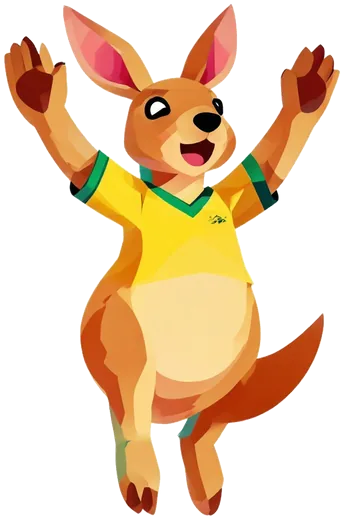
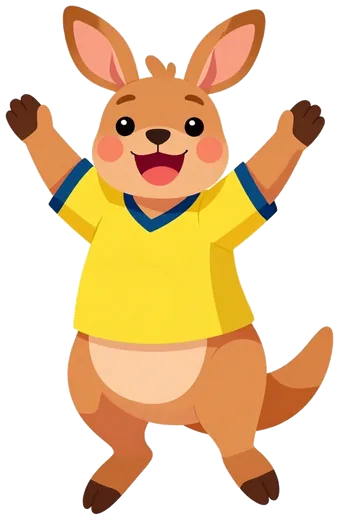
Prototype: flat-style Matilda, Max poses and 1.1 nouns (l2-art)
Replaces the round-5 (NAG 3) art with the flat max_s1 style, same file
names, so no code changes:
- matilda.webp: the new Matilda (balaca wayuu, soft lashes, striped ruana)
- matilda-wave/-celebrate/-surprised/-thinking, max-wave/-jump/-celebrate
  (fists up instead of a thumbs-up)/-surprised/-thinking
- noun-mapa, noun-mundo, noun-capital, noun-monumento
max.webp, the owls and family.webp are unchanged.

process_art.py now cuts out all of these (FLAT_PICKS) and takes asset
names to rebuild only some. New "noshadow" mask mode for art whose pale
parts touch the background (Matilda's belly, the map's white roads):
rembg's mask with holes filled, minus enclosed white gaps and the grey
ground shadow. process_art_l2.py only makes the PWA icons now.

Service worker and APP_VERSION bumped to 2026-10-18.l2-art.
DESIGN_SYSTEM.md asset table lists the new sources (spanish_app
design/characters/remake_flat/) and the owl/family style check.

Claude-Session: https://claude.ai/code/session_011BbGonQdQw1HEAXtyKUz6k

diff --git a/prototype/sw.js b/prototype/sw.js
@@ -7,7 +7,7 @@
 // Updates: bump VERSION (and APP_VERSION in js/app.js) on every release. The new worker
 // installs in the background, then the page tells it to take over (SKIP_WAITING) as
 // soon as no lesson is running (js/app.js); old caches are deleted on activate.
-const VERSION = "2026-10-18.l2-audio";
+const VERSION = "2026-10-18.l2-art";
 const SHELL = `buhisimo-shell-${VERSION}`;
 const MEDIA = `buhisimo-media-${VERSION}`;
 const RUNTIME = "buhisimo-runtime";

diff --git a/prototype/js/app.js b/prototype/js/app.js
@@ -14,7 +14,7 @@ import { gradeStep, meetLesson, buildReview, reviewViewHtml, dueItems, metItems 
 import { mountRadio, stopRadio } from "./radio.js";
 
 // Bump together with VERSION in sw.js for every release (tools/e2e-unit.mjs checks they match).
-export const APP_VERSION = "2026-10-18.l2-audio";
+export const APP_VERSION = "2026-10-18.l2-art";
 
 const app = document.getElementById("app");
 applyFont(store.get().font);

diff --git a/prototype/tools/process_art.py b/prototype/tools/process_art.py
@@ -1,8 +1,10 @@
 #!/usr/bin/env python3
 """Cut out and optimise the prototype art.
 
-Run with the Python that has rembg installed:
-    ~/Documents/video_generation/Wan2GP/.venv/bin/python prototype/tools/process_art.py
+Run with the Python that has rembg installed (CPU is enough):
+    CUDA_VISIBLE_DEVICES="" ~/Documents/video_generation/Wan2GP/.venv/bin/python prototype/tools/process_art.py [names...]
+
+With names, only those assets are rebuilt (e.g. `max-wave noun-mapa`).
 
 Reads the source PNGs (never modifies them) from
 ~/Documents/spanish/spanish_app/design/prototype_art/ and writes optimised
@@ -22,6 +24,11 @@ from scipy import ndimage
 SRC = Path.home() / "Documents/spanish/spanish_app/design/prototype_art"
 # Species-accurate Buhísimo (round head, no ear tufts), seed 3 = most consistent set.
 OWL_SRC = Path.home() / "Documents/spanish/spanish_app/design/characters/owl_fix"
+# Oct 18 flat remake (max_s1 style, NAG off): Matilda with the balaca wayuu, the expression
+# poses for Matilda and Max, and the four Unit 1.1 nouns. Replaces the round-5 art that
+# process_art_l2.py used to cut out.
+# matilda_stand_s4.png is Juan's pick from matilda_girl/balaca_style/, copied into remake_flat/.
+FLAT_SRC = Path.home() / "Documents/spanish/spanish_app/design/characters/remake_flat"
 OUT = Path(__file__).resolve().parent.parent / "assets"
 MAX_BYTES = 150 * 1024
 
@@ -31,6 +38,8 @@ MAX_BYTES = 150 * 1024
 #                 near-white pixels (keeps white eye patches and chests solid)
 #   mode "rembg": rembg's own mask with enclosed holes filled (for art where
 #                 white clothes touch the background, e.g. the family)
+#   mode "noshadow": rembg's mask (holes filled) minus the neutral-grey ground
+#                 shadow, see rembg_no_shadow ("noshadow-keepwhite" for the map)
 #   whiteout: rectangles (fractions) painted white first, to erase the houses
 O = dict(model="isnet-general-use", size=640, mode="flood", core=(0.35, 0.25, 0.65, 0.75), whiteout=())
 CHARACTERS = {
@@ -38,11 +47,35 @@ CHARACTERS = {
     "owl-celebrating": dict(O, dir=OWL_SRC, src="pose_celebrating_s3.png", mode="rembg"),
     "owl-encouraging": dict(O, dir=OWL_SRC, src="pose_encouraging_s3.png", mode="rembg"),
     "owl-thinking":    dict(O, dir=OWL_SRC, src="pose_thinking_s3.png", mode="rembg"),
-    "matilda":         dict(O, src="matilda_s2.png", core=(0.40, 0.25, 0.60, 0.75),
-                            whiteout=((0.0, 0.43, 0.285, 1.0), (0.73, 0.47, 1.0, 1.0))),
+    # Her pale belly touches the white background between her legs, so the flood fill would eat it.
+    "matilda":         dict(O, dir=FLAT_SRC, src="matilda_stand_s4.png", mode="noshadow", core=(0.40, 0.25, 0.60, 0.75)),
     "max":             dict(O, src="max_s1.png", core=(0.40, 0.30, 0.60, 0.70)),
     "family":          dict(O, src="family_s1.png", size=900, mode="rembg", core=(0.30, 0.30, 0.70, 0.80)),
 }
+# Expression poses and nouns: same pipeline, smaller output (the sizes the round-5 art had).
+F = dict(O, dir=FLAT_SRC, size=520)
+N = dict(F, size=420)
+FLAT_PICKS = {
+    "matilda-wave": "matilda_wave_s4.png",
+    "matilda-celebrate": "matilda_celebrate_s4.png",
+    "matilda-surprised": "matilda_surprised_s4.png",
+    "matilda-thinking": "matilda_thinking_s1.png",
+    "max-wave": "max_wave_s1.png",
+    "max-jump": "max_jump_s1.png",
+    "max-celebrate": "max_celebrate_s3.png",
+    "max-surprised": "max_surprised_s1.png",
+    "max-thinking": "max_thinking_s2.png",
+    "noun-mapa": "noun_mapa_s4.png",
+    "noun-mundo": "noun_mundo_s2.png",
+    "noun-capital": "noun_capital_s2.png",
+    "noun-monumento": "noun_monumento_s4.png",
+}
+# Where pale parts touch the background (Matilda's belly, the map's white roads) the flood
+# fill would eat them, so those use rembg's mask minus the grey ground shadow.
+MODES = {"matilda-wave": "noshadow", "matilda-celebrate": "noshadow", "matilda-surprised": "noshadow",
+         "matilda-thinking": "noshadow", "noun-mapa": "noshadow-keepwhite"}
+for _name, _src in FLAT_PICKS.items():
+    CHARACTERS[_name] = dict(N if _name.startswith("noun") else F, src=_src, mode=MODES.get(_name, "flood"))
 
 # name -> (source, max width, quality)
 SCENES = {
@@ -85,6 +118,40 @@ def fill_holes(rgb_im: Image.Image, cut: Image.Image) -> Image.Image:
     a = np.array(cut)
     solid = ndimage.binary_fill_holes(a[:, :, 3] > 128)
     a[:, :, 3] = np.where(solid, 255, a[:, :, 3])
+    a[:, :, :3] = np.array(rgb_im)
+    return Image.fromarray(a)
+
+
+def rembg_no_shadow(rgb_im: Image.Image, cut: Image.Image, fill: bool = True, drop_gaps: bool = True, band: float = 0.16) -> Image.Image:
+    """rembg's mask, minus the grey ground shadow under the feet.
+
+    For art where pale parts touch the background (Matilda's belly between her legs, the
+    map's white roads), which the flood fill would eat. rembg keeps those, but it also keeps
+    the soft grey ground shadow, so in the bottom `band` of the figure we drop pixels that
+    are border-connected light background AND neutral grey (the shadow is ~(234,232,233);
+    her belly ~(250,234,221) is warm, so it stays). fill=True first makes enclosed holes
+    solid (rembg drops her pale inner ears otherwise); pure white (>=246) is never dropped,
+    so the map's white roads survive.
+    """
+    a = np.array(cut)
+    rgb = np.array(rgb_im).astype(np.int16)
+    lo, hi = rgb.min(axis=2), rgb.max(axis=2)
+    solid = a[:, :, 3] > 128
+    if fill:
+        filled = ndimage.binary_fill_holes(solid)
+        # Holes rembg left are either pale parts (inner ears: keep) or enclosed background
+        # gaps (between the legs, arm and head: pure white, drop).
+        # drop_gaps=False keeps every enclosed white (the map's pin centre and roads).
+        gap = (filled & ~solid) & (lo >= 238) & (hi - lo < 12) & drop_gaps
+        solid = filled & ~ndimage.binary_dilation(gap, iterations=1, mask=filled & ~solid)
+    ys = np.nonzero(solid.any(axis=1))[0]
+    y_band = int(ys[-1] - band * (ys[-1] - ys[0])) if len(ys) else 0
+    drop = background_flood(np.array(rgb_im)) & (hi - lo < 12) & (lo < 246)
+    drop[:y_band] = False
+    keep = solid & ~drop
+    keep = ndimage.binary_opening(keep, iterations=1)  # no thin shadow rims left behind
+    alpha = np.where(keep, 255, 0).astype(np.uint8)
+    a[:, :, 3] = np.array(Image.fromarray(alpha).filter(ImageFilter.GaussianBlur(0.6)))
     a[:, :, :3] = np.array(rgb_im)
     return Image.fromarray(a)
 
@@ -144,7 +211,12 @@ def main(only=None):
                 draw.rectangle((fx0 * im.width, fy0 * im.height, fx1 * im.width, fy1 * im.height), fill="white")
         sess = sessions.setdefault(model, new_session(model))
         cut = remove(im, session=sess, post_process_mask=True)
-        cut = merge_masks(im, cut) if c["mode"] == "flood" else fill_holes(im, cut)
+        if c["mode"] == "flood":
+            cut = merge_masks(im, cut)
+        elif c["mode"] == "rembg":
+            cut = fill_holes(im, cut)
+        else:  # "noshadow" / "noshadow-keepwhite"
+            cut = rembg_no_shadow(im, cut, drop_gaps=c["mode"] == "noshadow")
         cut = keep_character(cut, c["core"])
         # The generated ground shadow is a soft grey ellipse; drop near-transparent haze.
         cut = trim(cut)

diff --git a/prototype/tools/process_art_l2.py b/prototype/tools/process_art_l2.py
@@ -1,6 +1,6 @@
 #!/usr/bin/env python3
-"""Cut out the round-5 expression and noun art for Unit 1.1 (stories, new-word cards)
-and make the PWA icons. NO models: the generated art sits on a plain white
+"""Make the PWA icons (and, historically, cut out the round-5 expression and noun art;
+that art was replaced on 18 Oct, see ART below). NO models: the generated art sits on a plain white
 background, so a flood fill from the border (the same "flood" mask as
 process_art.py, without rembg) is enough. CPU only, numpy + scipy + Pillow:
 
@@ -23,22 +23,11 @@ OUT = PROTO / "assets"
 ICONS = PROTO / "icons"
 MAX_BYTES = 120 * 1024
 
-# name -> (source, max side)
-ART = {
-    "matilda-wave": ("matilda_wave_s1.png", 520),
-    "matilda-surprised": ("matilda_surprised_s1.png", 520),
-    "matilda-celebrate": ("matilda_celebrate_s1.png", 520),
-    "matilda-thinking": ("matilda_thinking_s1.png", 520),
-    "max-wave": ("max_wave_s1.png", 520),
-    "max-jump": ("max_jump_s1.png", 520),
-    "max-surprised": ("max_surprised_s1.png", 520),
-    "max-celebrate": ("max_celebrate_s1.png", 520),
-    "max-thinking": ("max_thinking_s1.png", 520),
-    "noun-mapa": ("noun_mapa_s1.png", 420),
-    "noun-mundo": ("noun_mundo_s1.png", 420),
-    "noun-capital": ("noun_capital_s1.png", 420),
-    "noun-monumento": ("noun_monumento_s2.png", 420),
-}
+# name -> (source, max side). Empty since 18 Oct: the expression poses and nouns were
+# remade in the flat max_s1 style (design/characters/remake_flat/) and are now cut out by
+# process_art.py (FLAT_PICKS). This script still makes the PWA icons; add round-5 entries
+# here only to rebuild the old art.
+ART: dict[str, tuple[str, int]] = {}
 
 
 def background_flood(rgb: np.ndarray) -> np.ndarray:

diff --git a/prototype/DESIGN_SYSTEM.md b/prototype/DESIGN_SYSTEM.md
@@ -96,20 +96,35 @@ Students switch pairings in Settings (the slider icon in a lesson, or the gear o
 
 Cut out with rembg (`isnet-general-use`) by `tools/process_art.py`, which never modifies the sources. Every file is WebP and ≤150 KB (largest: family, 39 KB).
 
+**Style (fixed 18 Oct):** flat, chunky rounded shapes, no outlines, one soft shadow tone, the look of `max.webp`. Made with Z-Image Turbo, 8 steps, **NAG off** (no negative prompt); the palette line lists colours only. Matilda, her poses, Max's poses and the four 1.1 nouns were remade in this style on 18 Oct (sources and prompts: `characters/remake_flat/`, review page `remake_flat/index.html`); they replace the softer round-5 (NAG 3) art. Paths below are under `spanish_app/design/`.
+
 | Asset | Source | Used for |
 |---|---|---|
 | `owl-explaining` | `characters/owl_fix/pose_explaining_s3.png` | New words, path peek, brand avatar |
 | `owl-celebrating` | `…/pose_celebrating_s3.png` | Correct sheet, lesson complete |
 | `owl-encouraging` | `…/pose_encouraging_s3.png` | Wrong sheet, quit dialog |
 | `owl-thinking` | `…/pose_thinking_s3.png` | Accent fix-up |
-| `matilda` | `prototype_art/matilda_s2.png` (houses painted out first) | Intro, tiles, speaking |
-| `max` | `prototype_art/max_s1.png` | Intro, path |
+| `matilda` | `characters/remake_flat/matilda_stand_s4.png` (Juan's pick from `matilda_girl/balaca_style/`: balaca wayuu, soft lashes, striped ruana) | Intro, tiles, speaking |
+| `matilda-wave` | `remake_flat/matilda_wave_s4.png` | Story cast and lines |
+| `matilda-celebrate` | `remake_flat/matilda_celebrate_s4.png` | Story |
+| `matilda-surprised` | `remake_flat/matilda_surprised_s4.png` | Story |
+| `matilda-thinking` | `remake_flat/matilda_thinking_s1.png` | Story |
+| `max` | `prototype_art/max_s1.png` (the style reference) | Intro, path |
+| `max-wave` | `remake_flat/max_wave_s1.png` | Story cast and lines |
+| `max-jump` | `remake_flat/max_jump_s1.png` | Story |
+| `max-celebrate` | `remake_flat/max_celebrate_s3.png` (fists up; was a thumbs-up) | Story |
+| `max-surprised` | `remake_flat/max_surprised_s1.png` | Story |
+| `max-thinking` | `remake_flat/max_thinking_s2.png` | Story |
+| `noun-mapa` | `remake_flat/noun_mapa_s4.png` (paper map, route, pin) | New-word card, picture choice |
+| `noun-mundo` | `remake_flat/noun_mundo_s2.png` (globe on a stand) | New-word card, picture choice |
+| `noun-capital` | `remake_flat/noun_capital_s2.png` (skyline with a gold star) | New-word card |
+| `noun-monumento` | `remake_flat/noun_monumento_s4.png` (stone obelisk on steps) | New-word card |
 | `family` | `prototype_art/family_s1.png` (s2 has houses directly behind them) | Design system only (arrives in 1.3) |
 | `map-background` | `prototype_art/map_background_s2.png` | Path background, under a light cream veil |
 | `salento-street` | `prototype_art/salento_street_s1.png` (more magenta) | Lesson complete |
 | `flags/*.svg` | flag-icons 7.2.3 (MIT) | Country cards |
 
-Buhísimo is the species-accurate seed-3 set (round head, no ear tufts). The celebrating pose carries a teal bag while the other three carry a pink one; fix that when the final art is made.
+Buhísimo is the species-accurate seed-3 set (round head, no ear tufts). The celebrating pose carries a teal bag while the other three carry a pink one; fix that when the final art is made. Checked against `max_s1` on 18 Oct: the owl poses were made with NAG 3 and are slightly softer (gradient glasses, textured belly), close enough to keep for now; `family` was made with NAG off and is on-style.
 
 ## 7. Voice and tone
 
@@ -190,7 +205,7 @@ prototype/
   tools/check_vocab.mjs      vocabulary validator (unit and lesson level; --todo writes audio/TODO_lines.json)
   tools/e2e-unit.mjs         headless Chromium test of all of Unit 1.1 (plus e2e.mjs, e2e-keyboard.mjs for lesson 1)
   tools/contrast.py          contrast table from tokens.css
-  tools/process_art.py       art cut-out pipeline (rembg) · process_art_l2.py (flood fill, no model)
+  tools/process_art.py       art cut-out pipeline (rembg; all character, pose and noun art) · process_art_l2.py (PWA icons)
   tools/make_worldmap.mjs · make_radio_demo.py · import_design_clips.py
 ```
 
